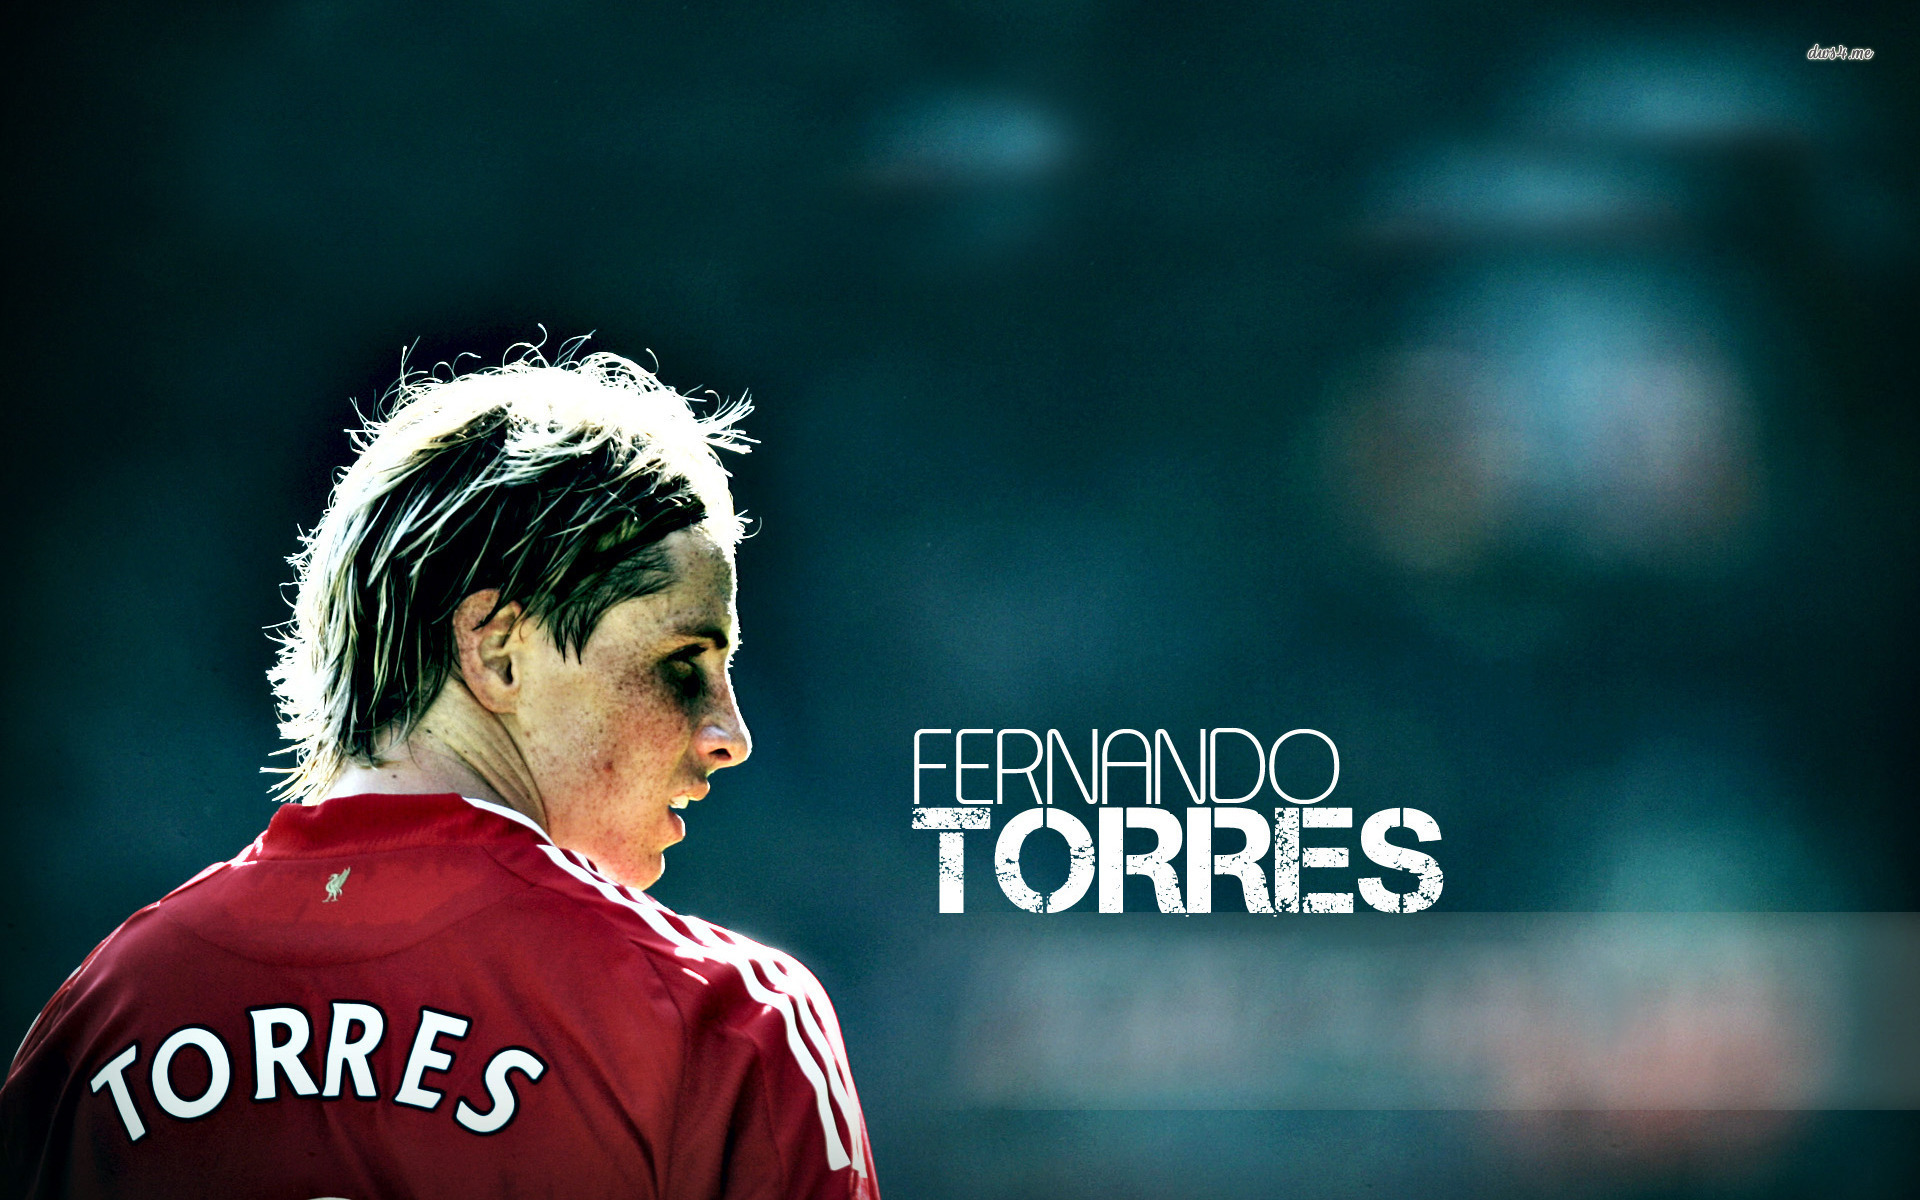
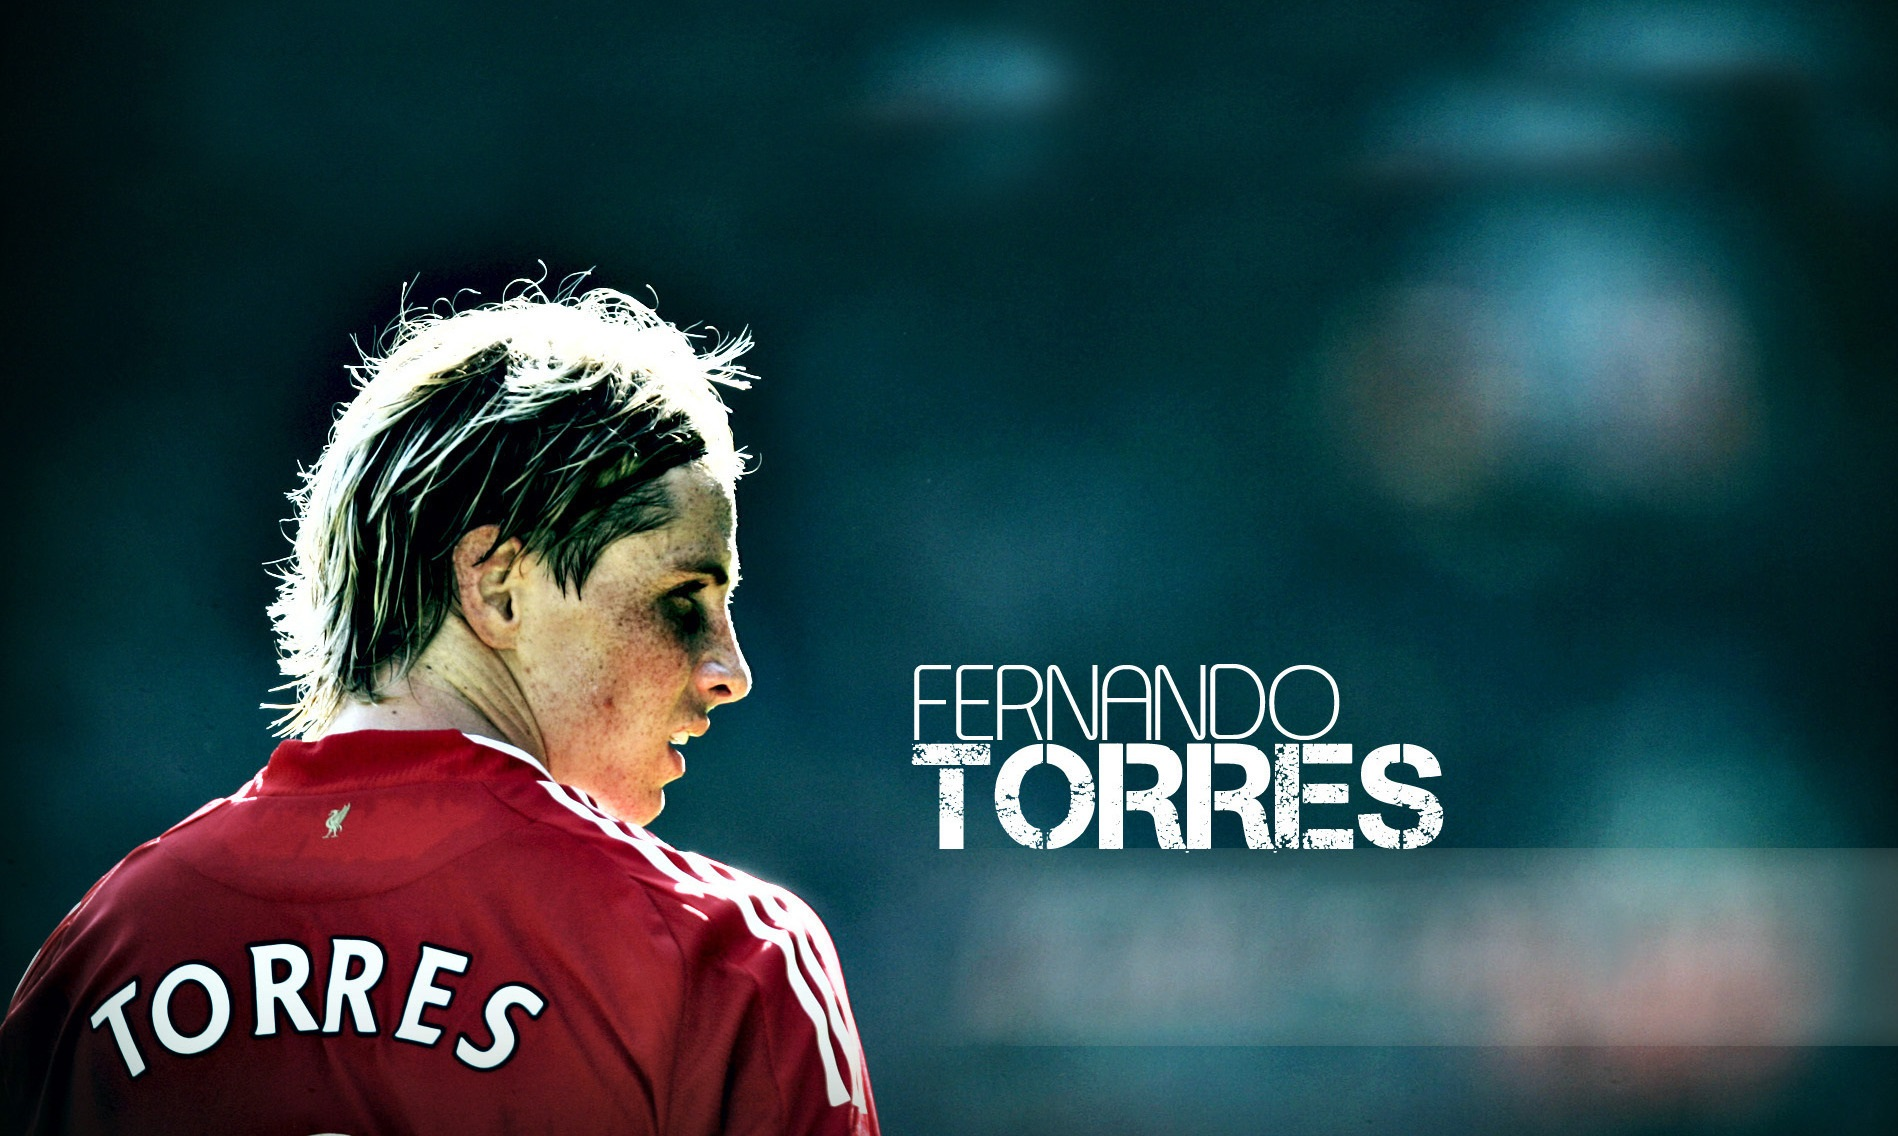
image changes

diff --git a/sass/main.scss b/sass/main.scss
@@ -59,7 +59,7 @@ h1{
 	bottom:0;
 	right:0;
 	left:0;
-	background:$banner-background-color url(../images/comp/banner.jpg) 7% 10% no-repeat;
+	background:$banner-background-color url(../images/comp/banner.jpg) 8% 50% no-repeat;
 	background-size:cover;
 	opacity:0.6;
 	z-index:-1;

diff --git a/src/css/main.css b/src/css/main.css
@@ -45,7 +45,7 @@ h1 {
   bottom: 0;
   right: 0;
   left: 0;
-  background: #2a2a2a url(../images/comp/banner.jpg) 7% 10% no-repeat;
+  background: #2a2a2a url(../images/comp/banner.jpg) 8% 50% no-repeat;
   background-size: cover;
   opacity: 0.6;
   z-index: -1; }
